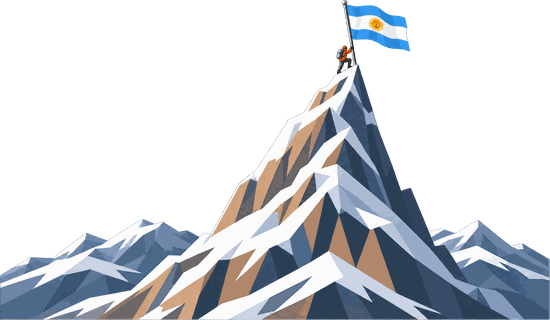
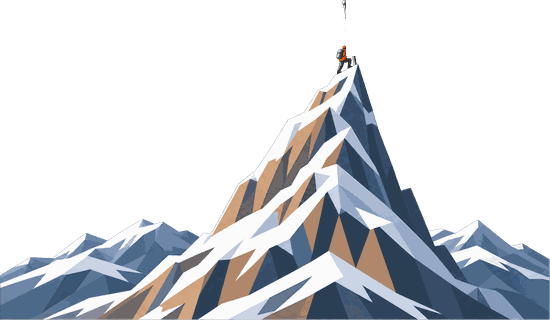
Acrobático con humo y maniobras reales detrás del 747, bandera del Aconcagua flamea, faro con haz rotatorio, Fuji ancho, ISS más chica
Claude-Session: https://claude.ai/code/session_01HzcLU7UAVJ8SL338GQnGNt

Changed region(s): [[0.6182, 0.0, 0.7418, 0.1875]]

diff --git a/index.html b/index.html
@@ -89,6 +89,11 @@
   .scene .mon{position:absolute;left:100%;z-index:2;animation:passmon linear forwards;will-change:transform;line-height:0;pointer-events:none}
   .scene .mon img{display:block;height:100%;width:100%}
   @keyframes passmon{to{transform:translateX(-1200px)}}
+  .scene .mon .flag{position:absolute;left:63%;top:0;width:12.5%;height:auto;transform-origin:0 50%;animation:flagwave 1.1s ease-in-out infinite}
+  @keyframes flagwave{0%,100%{transform:skewY(-6deg) scaleX(1)}50%{transform:skewY(6deg) scaleX(.93)}}
+  .scene .mon .lamp{position:absolute;left:51%;top:11%;width:6px;height:6px;margin:-3px 0 0 -3px;border-radius:50%;background:#FFF4C2;box-shadow:0 0 10px 4px rgba(255,236,160,.9)}
+  .scene .mon .beam{position:absolute;left:51%;top:11%;width:320px;height:60px;margin-top:-30px;transform-origin:0 50%;background:linear-gradient(90deg,rgba(255,244,190,.9),rgba(255,244,190,.4) 55%,rgba(255,244,190,0));clip-path:polygon(0 47%,100% 0,100% 100%,0 53%);animation:beam 4s linear infinite;mix-blend-mode:screen}
+  @keyframes beam{to{transform:rotate(-360deg)}}
   /* objetos que pasan volando (sprites del usuario) con efectos animados */
   .scene .obj{position:absolute;left:100%;animation:pass linear forwards;will-change:transform;line-height:0}
   .scene .obj > img{display:block;width:100%;height:auto}
@@ -118,8 +123,11 @@
   @keyframes parab{0%{transform:translateY(20px)}12.5%{transform:translateY(-2px)}25%{transform:translateY(-13px)}37.5%{transform:translateY(-22px)}50%{transform:translateY(-25px)}62.5%{transform:translateY(-22px)}75%{transform:translateY(-13px)}87.5%{transform:translateY(-2px)}100%{transform:translateY(20px)}}
   @keyframes ballspin{to{transform:rotate(-360deg)}}
   @keyframes balsway{from{transform:rotate(-5deg)}to{transform:rotate(5deg)}}
-  .scene .obj .stunt{display:block;position:relative;transform-origin:50% 50%;animation:pirueta 7s ease-in-out infinite}
-  @keyframes pirueta{0%,12%{transform:rotate(0) translateY(0)}24%{transform:rotate(-180deg) translateY(-22px)}36%{transform:rotate(-360deg) translateY(0)}44%{transform:rotate(-360deg) translateY(0)}56%{transform:rotate(-540deg) translateY(-22px)}68%{transform:rotate(-720deg) translateY(0)}100%{transform:rotate(-720deg) translateY(0)}} /* dos loops, campana grande */
+  /* avión acrobático: vuela por JS (loops, tirabuzones, picada, escribe "Navidad") y deja humo */
+  .scene .stunt{position:absolute;left:0;top:0;z-index:2;will-change:transform;line-height:0;pointer-events:none}
+  .scene .stunt img{display:block;width:100%;height:auto}
+  .scene .smoke{position:absolute;z-index:2;width:10px;height:10px;margin:-5px 0 0 -5px;border-radius:50%;background:radial-gradient(circle,rgba(255,255,255,.95) 0%,rgba(255,255,255,.55) 45%,rgba(255,255,255,0) 72%);animation:smoke linear forwards;pointer-events:none}
+  @keyframes smoke{0%{transform:scale(.5);opacity:.95}30%{transform:scale(1.3);opacity:.8}100%{transform:scale(2.1) translateY(-6px);opacity:0}}
   .scene .obj .part img.wing.back{z-index:0}
   @keyframes capa{0%{transform:skewY(-7deg) scaleY(.9)}50%{transform:skewY(2deg) scaleY(1.04) scaleX(1.03)}100%{transform:skewY(6deg) scaleY(1.08)}}
   .scene .obj .part img{display:block;width:100%;height:auto}
@@ -475,7 +483,7 @@ const OBJS = [
   ["dron",12, FX.rotor(12,7,30)+FX.rotor(86,7,30)],
   ["colibri",10,""], ["pegaso",20,""], ["ardilla",12,""], ["nazca",60,""], ["voyager",16,""],
   ["webb",44, FX.blink(50,4,RED)+FX.blink(8,80,GRN,.7)+FX.blink(95,80,WHT,1.3)],
-  ["iss",170, FX.blink(3,30,RED)+FX.blink(22,30,"#FFD23F",.7)+FX.blink(40,42,"#4FA3FF",1.4)+FX.blink(50,38,WHT,2.1)+FX.blink(60,42,"#FF6BD6",2.8)+FX.blink(78,30,"#FFD23F",3.5)+FX.blink(97,30,GRN,.5)],
+  ["iss",85, FX.blink(3,30,RED,0,2.5)+FX.blink(22,30,"#FFD23F",.7,2.5)+FX.blink(40,42,"#4FA3FF",1.4,2.5)+FX.blink(50,38,WHT,2.1,2.5)+FX.blink(60,42,"#FF6BD6",2.8,2.5)+FX.blink(78,30,"#FFD23F",3.5,2.5)+FX.blink(97,30,GRN,.5,2.5)],
   ["grinch",20, FX.prop(8,50,46,.22)], ["helicoptero",28, FX.rotor(47,17,70)+FX.prop(94,50,14,.2)], ["globo",40,""], ["avionpapel",12,""], ["parapente",22,""], ["wingsuit",18,""],
   ["saturn",70, FX.flame(99,34,24,180)+FX.flame(99,73,24,180)],
   ["acrobatico",18, FX.prop(5,47,30,.25)], ["ciguena",14,""],
@@ -534,13 +542,63 @@ function startScene(){
     const name = nextMon(), m = document.createElement("span"); m.className = "mon";
     const img = new Image(); img.src = `/obj/mon_${name}.png`;
     const go = ()=>{ if(!sc()) return;
-      const ar = img.naturalWidth/img.naturalHeight || 1, h = Math.round(130 + Math.random()*30), wdt = Math.min(Math.round(ar*h), 300); // alto en px; los anchos se topan en 300 y la imagen se alarga en vertical
-      const vis = 0.38 + Math.random()*0.12; // se ve solo la parte de arriba (38–50 %)
+      const ar = img.naturalWidth/img.naturalHeight || 1; let h = Math.round(130 + Math.random()*30), wdt = Math.min(Math.round(ar*h), 300); // alto en px; los anchos se topan en 300 y la imagen se alarga en vertical
+      let vis = 0.38 + Math.random()*0.12; // se ve solo la parte de arriba (38–50 %)
+      if(name === "fuji"){ wdt = 440; h = Math.round(440/ar); vis = 0.78; } // el Fuji: ancho y bajo, sin estirar, se ve el pico nevado y el cambio de color
       const dur = (9 + Math.random()*5) * (1 + Math.random()*0.5) * 4 * 1200/720 / 1.3; // 4 veces más lento que los objetos, +30 % de velocidad
       m.style.height = h + "px"; m.style.width = wdt + "px"; m.style.top = (s.clientHeight - h*vis) + "px"; m.style.animationDuration = dur + "s";
-      m.appendChild(img); m.addEventListener("animationend", ()=>m.remove()); s.appendChild(m);
+      m.appendChild(img);
+      if(name === "aconcagua") m.insertAdjacentHTML("beforeend", `<img class="flag" src="/obj/mon_aconcagua_flag.png" alt="">`); // la bandera flamea
+      if(name === "faro") m.insertAdjacentHTML("beforeend", `<i class="beam"></i><i class="lamp"></i>`);                     // el faro proyecta luz
+      m.addEventListener("animationend", ()=>m.remove()); s.appendChild(m);
       sceneTimers.push(setTimeout(monument, dur*1000*0.42 + Math.random()*6000)); };
     if(img.complete && img.naturalWidth) go(); else { img.onload = go; img.onerror = ()=>sceneTimers.push(setTimeout(monument, 8000)); } };
+  const aerobatics = (w, fx)=>{ const s = sc(); if(!s) return;
+    const W = s.clientWidth, H = s.clientHeight, P = (x,y)=>[x*W/100, y*H/100];
+    const segs = [], add = (pts, smoke, mode)=>segs.push({pts, smoke, mode});
+    const arc = (cx,cy,r,a0,a1,n)=>{ const o = []; for(let i=0;i<=n;i++){ const a = a0+(a1-a0)*i/n; o.push([cx+Math.cos(a)*r, cy+Math.sin(a)*r]); } return o; };
+    // 1) entra por la derecha, 2) loop completo, 3) tirabuzón (dos rolidos), 4) trepada y caída en picada, 5) escribe "Navidad", 6) loop de salida
+    add([P(112,40), P(84,36)], true, "fly");
+    const r = H*0.19, c = P(84,36); add(arc(c[0], c[1]-r, r, Math.PI/2, Math.PI/2 + 2*Math.PI, 40), true, "loop");        // loop
+    const cs = []; for(let i=0;i<=30;i++){ const t = i/30; cs.push([c[0]-t*W*0.26, c[1]-4-Math.sin(t*Math.PI*4)*H*0.05]); } add(cs, true, "roll"); // tirabuzón
+    const e = cs[cs.length-1];
+    add([e, [e[0]-W*0.06, e[1]-H*0.24]], true, "fly");                                        // trepada
+    add(arc(e[0]-W*0.06-W*0.045, e[1]-H*0.24, W*0.045, 0, -Math.PI/2, 10), true, "fly");       // cambia a picada
+    add([[e[0]-W*0.105, e[1]-H*0.24-W*0.045], [e[0]-W*0.105, H*0.70]], true, "dive");         // caída en picada
+    add(arc(e[0]-W*0.105-W*0.06, H*0.70, W*0.06, 0, -Math.PI/2, 10), true, "fly");             // se endereza abajo
+    const f = [e[0]-W*0.165, H*0.70-W*0.06];
+    add([f, [f[0]-W*0.06, f[1]-H*0.2]], true, "fly");                                        // sube
+    const r2 = H*0.14, g2 = [f[0]-W*0.06, f[1]-H*0.2]; add(arc(g2[0], g2[1]-r2, r2, Math.PI/2, Math.PI/2 + 2*Math.PI, 36), true, "loop"); // segundo loop
+    add([g2, [-W*0.2, g2[1]-H*0.1]], true, "roll");                                           // sale rolando
+    // longitud acumulada
+    let L = 0; segs.forEach(g=>{ g.d0 = L; for(let i=1;i<g.pts.length;i++){ const a = g.pts[i-1], b = g.pts[i]; L += Math.hypot(b[0]-a[0], b[1]-a[1]); } g.d1 = L; });
+    const v = Math.max(80, W*0.22); // px/s
+    const el = document.createElement("span"); el.className = "stunt"; el.style.width = w + "px"; el.style.fontSize = (w/100) + "px"; el.style.zIndex = 2; // siempre detrás del 747
+    el.innerHTML = `<img src="/obj/acrobatico.png" alt="">${fx}`; s.appendChild(el);
+    const posAt = d=>{ const g = segs.find(g=>d <= g.d1) || segs[segs.length-1]; let acc = g.d0;
+      for(let i=1;i<g.pts.length;i++){ const a = g.pts[i-1], b = g.pts[i], l = Math.hypot(b[0]-a[0], b[1]-a[1]);
+        if(d <= acc + l || i === g.pts.length-1){ const t = l ? Math.max(0, Math.min(1, (d-acc)/l)) : 0; return {x:a[0]+(b[0]-a[0])*t, y:a[1]+(b[1]-a[1])*t, ang:Math.atan2(b[1]-a[1], b[0]-a[0]), g, p:(d-g.d0)/(g.d1-g.d0)}; }
+        acc += l; } };
+    const t0 = performance.now(); let lastSmoke = null;
+    const step = now=>{ if(!el.isConnected || !s.isConnected || sc() !== s){ el.remove(); return; }
+      const d = (now-t0)/1000*v; if(d > L){ el.remove(); return; }
+      const q = posAt(d), dx = Math.cos(q.ang);
+      let sy2 = q.g.mode === "loop" ? 1 : (dx > 0 ? -1 : 1);                 // de frente a la derecha se da vuelta para no ir invertido (salvo en el loop)
+      if(q.g.mode === "roll") sy2 *= Math.cos(q.p*Math.PI*4);                 // tirabuzón: dos rolidos
+      const sc2 = Math.abs(sy2) < 0.12 ? 0.12*Math.sign(sy2||1) : sy2;
+      el.style.transform = `translate(${(q.x - w/2).toFixed(1)}px,${(q.y - w*0.18).toFixed(1)}px) rotate(${(q.ang*180/Math.PI + 180).toFixed(1)}deg) scaleY(${sc2.toFixed(2)})`;
+      const bx = q.x - Math.cos(q.ang)*w*0.46, by = q.y - Math.sin(q.ang)*w*0.46; // cola del avión
+      if(q.g.smoke){ const gap = q.g.mode === "write" ? 2.5 : 4; // humo continuo: una partícula cada pocos px, sin importar los fps
+        if(!lastSmoke) lastSmoke = [bx, by];
+        const dl = Math.hypot(bx-lastSmoke[0], by-lastSmoke[1]), n = Math.min(40, Math.floor(dl/gap));
+        for(let i=1;i<=n;i++){ const t = i/n, m = document.createElement("i"); m.className = q.g.mode === "write" ? "smoke w" : "smoke";
+          m.style.left = (lastSmoke[0]+(bx-lastSmoke[0])*t).toFixed(1) + "px"; m.style.top = (lastSmoke[1]+(by-lastSmoke[1])*t + (Math.random()-0.5)*1.5).toFixed(1) + "px";
+          m.style.animationDuration = (q.g.mode === "write" ? 11 + Math.random()*2 : 3.5 + Math.random()*1.5) + "s";
+          m.addEventListener("animationend", ()=>m.remove()); s.appendChild(m); }
+        if(n) lastSmoke = [bx, by]; }
+      else lastSmoke = null;
+      requestAnimationFrame(step); };
+    requestAnimationFrame(step); };
   let flyCount = 0;
   const spawn = (html, w, top, dur, front, delay=0)=>{ const s = sc(); if(!s) return null;
     const o = document.createElement("span"); o.className = "obj"; o.innerHTML = html;
@@ -570,6 +628,7 @@ function startScene(){
       }
     }else{
       const [name, base, fx] = nextObj();
+      if(name === "acrobatico"){ aerobatics(Math.round(base*1.2*(front ? 1.25 : 0.85)*0.85), fx); sceneTimers.push(setTimeout(thing, 22000 + Math.random()*6000)); return; }
       const SPACE = ["saturn","saturn2","iss","xwing","tie","enterprise","falcon","destroyer","boba","ovni","voyager","hubble","webb","sputnik"]; // naves y cohetes: siempre por arriba del avión
       const w = Math.max(12, Math.round((base < 30 ? base*1.2 : base) * (0.8 + Math.random()*0.4) * (front ? 1.25 : 0.85))); // los chicos, un 20 % más
       const img = new Image(); img.src = `/obj/${name}.png`;
@@ -577,7 +636,7 @@ function startScene(){
       const wg = WINGS[name];
       const wo = wg && wg[2] || {};
       const body = wg ? `<img src="/obj/${name}_body.png" alt="" class="${wo.back ? "front" : ""}">` + wg[0].map((p,i)=>`<img class="wing${wo.back ? " back" : ""}" src="/obj/${name}_w${i+1}.png" alt="" style="transform-origin:${p[0]}% ${p[1]}%;animation-name:${wo.anim || "flap"};animation-duration:${wg[1]}s;animation-delay:-${(Math.random()*wg[1]).toFixed(2)}s">`).join("") : `<img src="/obj/${name}.png" alt="">`;
-      const inner = name === "acrobatico" ? `<span class="stunt">${body}${fx}</span>` : name === "copa" ? COPA_HTML()
+      const inner = name === "copa" ? COPA_HTML()
         : name === "pelota" ? `<span class="kick" style="animation-duration:${dur}s"><span class="ball">${body}</span></span>` : body + fx; // acrobático: piruetas; pelota: pateada, gira y hace parábola
       const go = ()=>{ const sh = (sc() || {clientHeight:188}).clientHeight, hp = (w / (img.naturalWidth/img.naturalHeight || 2)) / sh * 100; // alto del objeto en % de la escena
         if(SPACE.includes(name)) top = 2 + Math.random()*Math.max(0, 34 - hp); // termina antes del 36 %, donde empieza el avión
